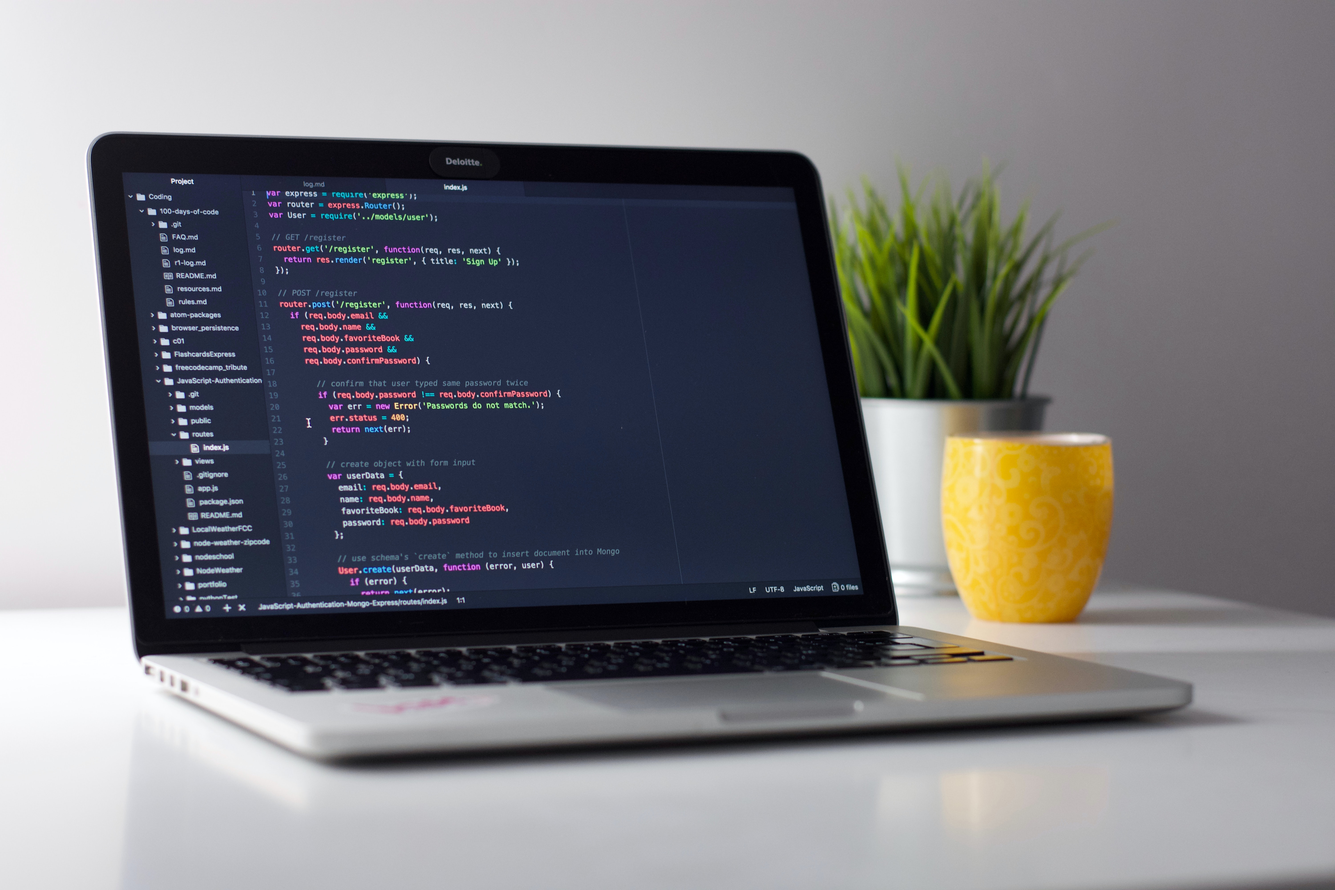
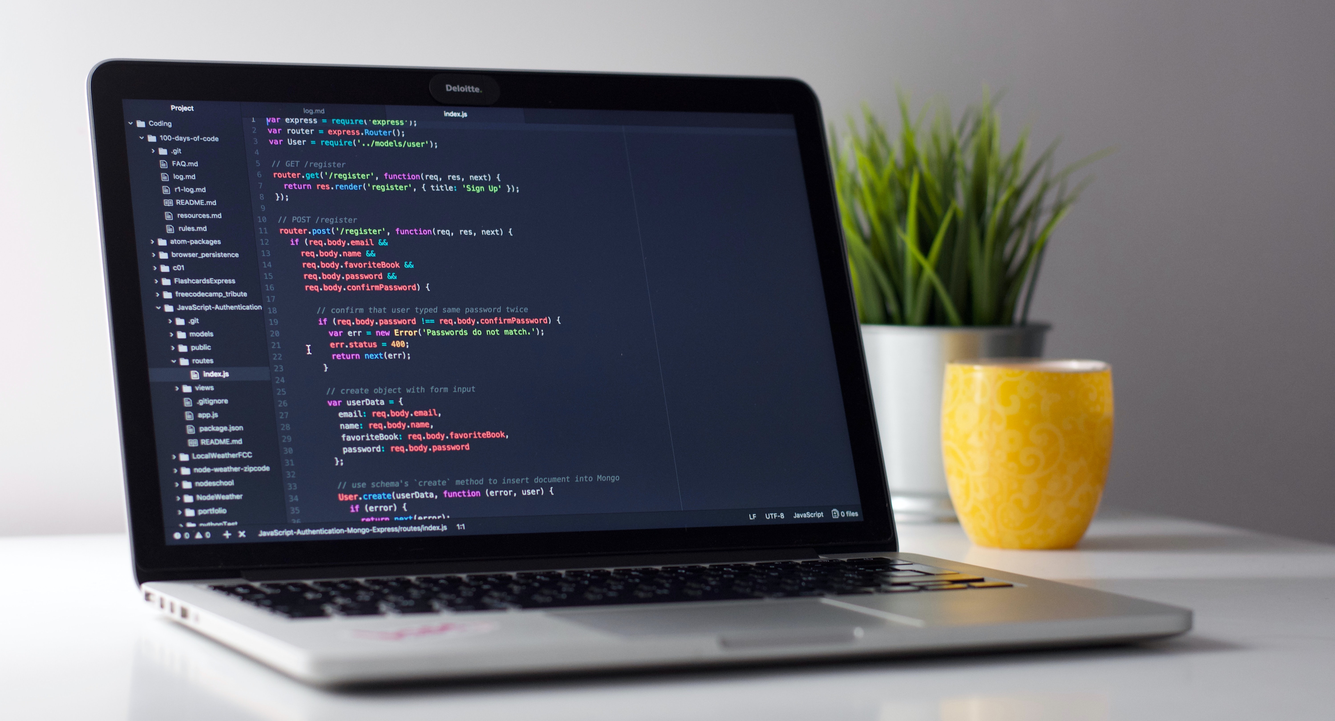
Changed picture in 'About Me' section

diff --git a/docs/index.html b/docs/index.html
@@ -139,7 +139,7 @@
 								<h2>About Me</h2>
 							</header>
 
-							<a href="#" class="image featured"><img src="images/shells.jpg" alt="Two Shells on a Beach" /></a>
+							<a href="#" class="image featured"><img src="images/laptop-code.jpg" alt="Two Shells on a Beach" /></a>
 
 							<p>I lived in Los Angeles for six years, where I tried to pursue a career in the film industry. I was lucky enough to work on a handful of big projects, but the long hours and gruling schedule motivated me to try something new. <br /><br /> I am currently living in Myrtle Beach South Carolina, where I am studying Web Development at Lambda School.</p>
 
